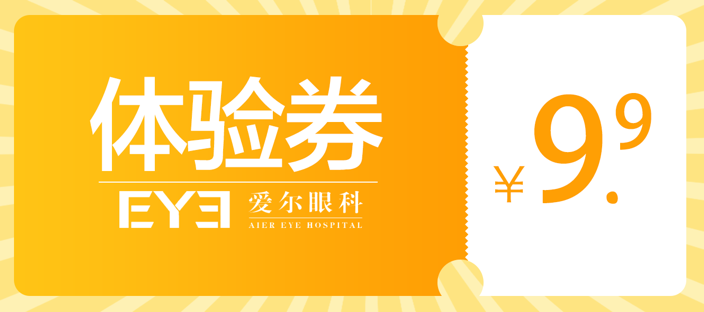
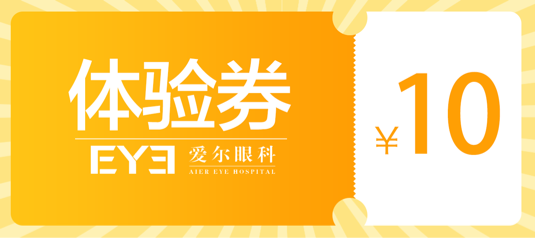
feat: 更改图片

diff --git a/src/aier/less/success.less b/src/aier/less/success.less
@@ -3,11 +3,17 @@
 @uiBtnColor: #52C162;
 @uiBtnShadowColor: #34A444;
 @_mainColor: rgba(58, 186, 77, .8), rgba(38, 158, 161, .8), rgba(98, 54, 255, .8), rgba(0, 145, 255, .8);
+@couponImg: url('../images/aier_coupon.png'), url('../images/aier_coupon1.png'), url('../images/aier_coupon1.png'), url('../images/aier_coupon1.png');
 @_uiBtnColor: #52C162, #269EA1, #6236FF, #0091FF;
 
 .loop(@n, @i:1) when (@i <= @n) {
   .page_@{i} {
     background-color: extract(@_mainColor, @i) !important;
+    .success-coupon{
+      background: extract(@couponImg, @i);
+      background-repeat: no-repeat;
+      background-size: 100% 100%;
+    }
     .ui-radio{
       border: @rem*5 solid extract(@_uiBtnColor, @i);
       box-shadow: 0 @rem*5 0 0 extract(@_uiBtnColor, @i);
@@ -101,7 +107,11 @@ body{
 }
 
 .success-coupon {
+  background: url("../images/aier_coupon.png");
+  background-repeat: no-repeat;
+  background-size: 100% 100%;
   width: @rem*535;
+  height: @rem*238;
   margin: 0 auto;
   position: relative;
 

diff --git a/src/aier/less/index.less b/src/aier/less/index.less
@@ -1,11 +1,17 @@
 @import "common";
 
 @bgImages: url('../images/aier_main.jpg'), url('../images/aier_main1.jpg'), url('../images/aier_main2.jpg'), url('../images/aier_main3.jpg');
+@couponImg: url('../images/aier_coupon.png'), url('../images/aier_coupon1.png'), url('../images/aier_coupon1.png'), url('../images/aier_coupon1.png');
 
 .loop(@n, @i:1) when (@i <= @n) {
   .page_@{i} {
     .question-button{
       background: extract(@buttonBgColor, @i);
+    }
+    .question-coupon{
+      background: extract(@couponImg, @i);
+      background-repeat: no-repeat;
+      background-size: 100% 100%;
     }
     .container{
       background-image: extract(@bgImages, @i);
@@ -35,7 +41,11 @@ body{
   text-align: center;
 }
 .question-coupon{
-  width: @rem*352;
+  background: url("../images/aier_coupon.png");
+  background-repeat: no-repeat;
+  background-size: 100% 100%;
+  width: @rem*351;
+  height: @rem*156;
   margin: 0 auto;
 }
 

diff --git a/src/aier/success.html b/src/aier/success.html
@@ -93,7 +93,7 @@
 <div class="container" >
   <p class="success-label">领取成功</p>
   <div class="success-coupon">
-    <img src="./images/aier_coupon.png" alt="" >
+<!--    <img src="./images/aier_coupon.png" alt="" >-->
   </div>
   <div class="aier-participation">
     <div class="activity-desc">

diff --git a/src/aier/index.html b/src/aier/index.html
@@ -93,7 +93,7 @@
     填写以下问卷可获得一张
   </div>
   <div class="question-coupon">
-    <img src="./images/aier_coupon.png" alt="" >
+<!--    <img src="./images/aier_coupon.png" alt="" >-->
   </div>
   <button class="question-button">开始测试</button>
 </div >
